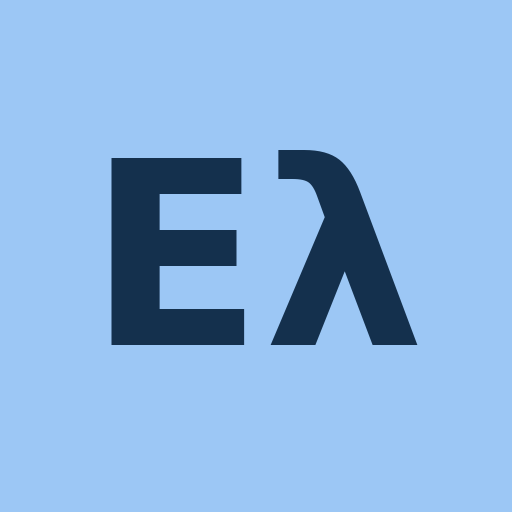
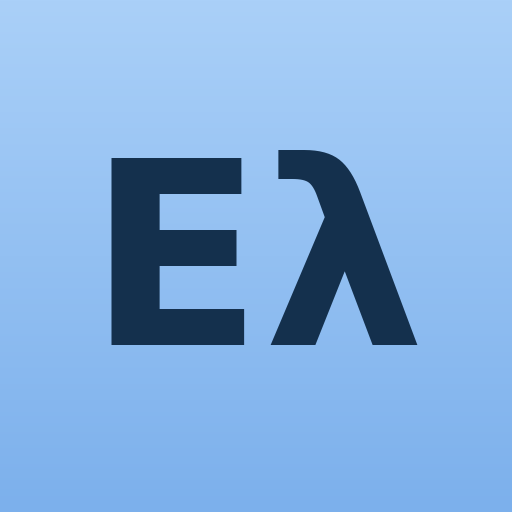
Сохранение/загрузка прогресса, AAB, адаптивная иконка, targetSdk 35
Claude-Session: https://claude.ai/code/session_0174n2Gv3BmsozFW4Fn2dvUe

Changed region(s): [[0.0, 0.8125, 1.0, 1.0]]

diff --git a/index.html b/index.html
@@ -522,7 +522,14 @@ function renderSettings(){
       <label class="chk"><input type="checkbox" id="optCy" ${s.cy?'checked':''}> Показывать кипрский вариант</label>
       <label class="chk" style="margin-top:8px"><input type="checkbox" id="optRu" ${s.ru?'checked':''}> На карточках сначала русский</label>
       <div style="margin-top:10px"><label class="sm" for="optFrom">Новые карточки начинать с урока</label><br><select id="optFrom">${FROM_MARKS.map(([v,l])=>`<option value="${v}">${l}</option>`).join('')}</select></div></div>
-    <div><h4 class="sm">Данные</h4><button class="btn" id="reset">Сбросить прогресс</button></div></div>`;
+    <div><h4 class="sm">Прогресс</h4>
+      <div class="row"><button class="btn" id="pSave">Сохранить прогресс</button><button class="btn" id="pLoad">Загрузить прогресс</button></div>
+      <div class="sm" id="pMsg" style="margin-top:8px"></div>
+      <div id="pBox" hidden style="margin-top:10px;display:flex;flex-direction:column;gap:8px">
+        <textarea id="pText" rows="5" placeholder="Вставьте сюда сохранённый текст или выберите файл" style="width:100%;font:inherit;font-size:.85rem;padding:10px;border-radius:12px;border:0;background:color-mix(in srgb,var(--ink) 7%,var(--surface));color:var(--ink)"></textarea>
+        <div class="row"><input type="file" id="pFile" accept=".json,application/json,text/plain" style="max-width:100%"><button class="btn primary" id="pApply">Загрузить</button></div>
+      </div>
+      <div style="margin-top:12px"><button class="btn" id="reset">Сбросить прогресс</button></div></div></div>`;
   $('#back').onclick = ()=>{ tab = prevTab; render(); };
   $('#segMode').onclick = e=>{ const b=e.target.closest('button'); if(b){ s.mode=b.dataset.v; save(); applyLook(); } };
   $('#segPal').onclick = e=>{ const b=e.target.closest('button'); if(b){ s.pal=b.dataset.v; save(); applyLook(); } };
@@ -532,7 +539,47 @@ function renderSettings(){
   const f = $('#optFrom'); f.value = String(s.from); if(f.value!==String(s.from)) f.value='1';
   f.onchange = e=>{ s.from=e.target.value; save(); };
   $('#reset').onclick = ()=>{ if(confirm('Сбросить весь прогресс (карточки, серию, результаты)? Настройки останутся.')){ st.cards={}; st.days=[]; st.rules={}; save(); sessionActive=false; queue=[]; idx=0; } };
+  progressUI();
   applyLook();
+}
+
+/* ---------- сохранение / загрузка прогресса ---------- */
+function progressPack(){
+  const cards = {}; Object.keys(st.cards).forEach(k=>{ if(st.cards[k].box>=0) cards[k] = st.cards[k]; });
+  return JSON.stringify({app:'greek5', v:1, saved:new Date().toISOString(), data:{cards, days:st.days, rules:st.rules, settings:st.settings}});
+}
+function progressApply(txt){
+  let o; try{ o = JSON.parse(txt.trim()); }catch(e){ throw new Error('Текст не похож на сохранённый прогресс.'); }
+  if(!o || o.app!=='greek5' || !o.data) throw new Error('Это не файл прогресса этого приложения.');
+  st.cards = o.data.cards||{}; st.days = o.data.days||[]; st.rules = o.data.rules||{};
+  if(o.data.settings) st.settings = Object.assign(st.settings, o.data.settings);
+  if(!PALS[st.settings.pal]) st.settings.pal='blue';
+  save(); sessionActive=false; queue=[]; idx=0; applyLook();
+  return Object.keys(st.cards).length;
+}
+function progressUI(){
+  const msg = t=>{ $('#pMsg').textContent = t; };
+  $('#pSave').onclick = async ()=>{
+    const txt = progressPack(), name = 'greek-progress-'+new Date().toISOString().slice(0,10)+'.json'; let done = '';
+    try{
+      if(window.AndroidBridge && AndroidBridge.shareText){ AndroidBridge.shareText(name, txt); done = 'Выберите, куда отправить файл (почта, заметки, диск).'; }
+      else if(navigator.share){
+        try{ const f = new File([txt], name, {type:'text/plain'}); if(navigator.canShare && navigator.canShare({files:[f]})) await navigator.share({files:[f], title:name}); else await navigator.share({title:name, text:txt}); done = 'Готово: прогресс отправлен.'; }
+        catch(e){ if(e&&e.name==='AbortError') return; }
+      }
+      if(!done){ const a = document.createElement('a'); a.href = URL.createObjectURL(new Blob([txt],{type:'application/json'})); a.download = name; document.body.appendChild(a); a.click(); a.remove(); done = 'Файл сохранён в загрузки.'; }
+    }catch(e){}
+    try{ await navigator.clipboard.writeText(txt); done += ' Текст также скопирован в буфер обмена.'; }catch(e){}
+    msg(done || 'Не удалось сохранить.');
+  };
+  $('#pLoad').onclick = ()=>{ const b=$('#pBox'); b.hidden = !b.hidden; if(!b.hidden){ b.style.display='flex'; } else b.style.display='none'; };
+  $('#pBox').style.display = 'none';
+  $('#pFile').onchange = e=>{ const f = e.target.files[0]; if(!f) return; const r = new FileReader(); r.onload = ()=>{ $('#pText').value = r.result; }; r.readAsText(f); };
+  $('#pApply').onclick = ()=>{
+    const t = $('#pText').value; if(!t.trim()){ msg('Вставьте текст или выберите файл.'); return; }
+    if(!confirm('Заменить текущий прогресс загруженным?')) return;
+    try{ const n = progressApply(t); msg('Загружено. Изучаемых фраз: '+n+'.'); $('#pText').value=''; }catch(e){ msg(e.message); }
+  };
 }
 
 let prevTab = 'learn';

diff --git a/android/app/src/main/java/com/andrey6570/greek/MainActivity.java b/android/app/src/main/java/com/andrey6570/greek/MainActivity.java
@@ -1,7 +1,16 @@
 package com.andrey6570.greek;
 
 import android.app.Activity;
+import android.content.Intent;
+import android.graphics.Color;
+import android.net.Uri;
+import android.os.Build;
 import android.os.Bundle;
+import android.view.View;
+import android.view.WindowInsets;
+import android.webkit.JavascriptInterface;
+import android.webkit.ValueCallback;
+import android.webkit.WebChromeClient;
 import android.webkit.WebResourceRequest;
 import android.webkit.WebResourceResponse;
 import android.webkit.WebSettings;
@@ -12,7 +21,23 @@ import androidx.webkit.WebViewAssetLoader;
 
 /** Оболочка: приложение целиком лежит в assets и работает без интернета. */
 public class MainActivity extends Activity {
+    private static final int PICK = 41;
     private WebView web;
+    private ValueCallback<Uri[]> chooser;
+
+    /** Мост для сохранения прогресса: отправляет текст через системное меню «Поделиться». */
+    public class Bridge {
+        @JavascriptInterface
+        public void shareText(String name, String text) {
+            runOnUiThread(() -> {
+                Intent i = new Intent(Intent.ACTION_SEND);
+                i.setType("text/plain");
+                i.putExtra(Intent.EXTRA_SUBJECT, name);
+                i.putExtra(Intent.EXTRA_TEXT, text);
+                startActivity(Intent.createChooser(i, name));
+            });
+        }
+    }
 
     @Override
     protected void onCreate(Bundle state) {
@@ -21,19 +46,56 @@ public class MainActivity extends Activity {
                 .addPathHandler("/", new WebViewAssetLoader.AssetsPathHandler(this))
                 .build();
         web = new WebView(this);
+        web.setBackgroundColor(Color.parseColor("#F2F2F7"));
         setContentView(web);
+        // targetSdk 35: приложение рисуется под системными панелями, поэтому отступы задаём сами
+        web.setOnApplyWindowInsetsListener((v, insets) -> {
+            int t, b, l, r;
+            if (Build.VERSION.SDK_INT >= 30) {
+                android.graphics.Insets s = insets.getInsets(WindowInsets.Type.systemBars() | WindowInsets.Type.displayCutout());
+                t = s.top; b = s.bottom; l = s.left; r = s.right;
+            } else {
+                t = insets.getSystemWindowInsetTop(); b = insets.getSystemWindowInsetBottom();
+                l = insets.getSystemWindowInsetLeft(); r = insets.getSystemWindowInsetRight();
+            }
+            v.setPadding(l, t, r, b);
+            return insets;
+        });
         WebSettings s = web.getSettings();
         s.setJavaScriptEnabled(true);
         s.setDomStorageEnabled(true); // localStorage: прогресс сохраняется
         s.setAllowFileAccess(false);
+        web.addJavascriptInterface(new Bridge(), "AndroidBridge");
         web.setWebViewClient(new WebViewClient() {
             @Override
             public WebResourceResponse shouldInterceptRequest(WebView v, WebResourceRequest r) {
                 return loader.shouldInterceptRequest(r.getUrl());
             }
         });
+        web.setWebChromeClient(new WebChromeClient() {
+            @Override
+            public boolean onShowFileChooser(WebView v, ValueCallback<Uri[]> cb, FileChooserParams p) {
+                if (chooser != null) chooser.onReceiveValue(null);
+                chooser = cb;
+                try {
+                    startActivityForResult(p.createIntent(), PICK);
+                } catch (Exception e) {
+                    chooser = null;
+                    return false;
+                }
+                return true;
+            }
+        });
         if (state != null) web.restoreState(state);
         else web.loadUrl("https://appassets.androidplatform.net/index.html");
+    }
+
+    @Override
+    protected void onActivityResult(int req, int res, Intent data) {
+        if (req == PICK && chooser != null) {
+            chooser.onReceiveValue(WebChromeClient.FileChooserParams.parseResult(res, data));
+            chooser = null;
+        } else super.onActivityResult(req, res, data);
     }
 
     @Override
